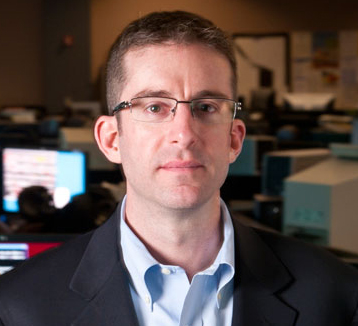
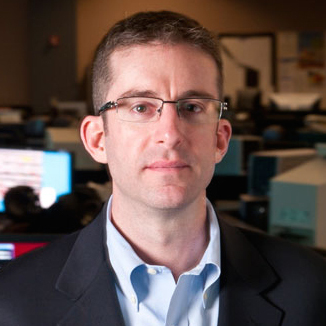
Completed dummy pages for Brett Goldstein

diff --git a/_includes/people/brett-goldstein.html b/_includes/people/brett-goldstein.html
@@ -1,0 +1,55 @@
+{% if include.context == 'people-page' %}
+
+<div class="layout-semibreve h-card">
+
+	<div class="heading">
+		<h2 class="p-name">Brett Goldstein</h2>
+	</div>
+
+	<div class="layout-minor">
+
+	    <h4 class="text-whisper layout-tight">Member of</h4>
+	    <ul class="list-no-bullets text-whisper link-invert">
+	    	<li><a href="{{ include.base }}/about/team/#board">Board</a></li>
+
+	    </ul>
+
+		<img class="profile-photo u-photo" src="{{ include.base }}/media/images/people/brett-goldstein.jpg" />
+	</div>
+
+	<div class="layout-major">
+
+	    <p class="p-note">Brett Goldstein is simply dummy text of the printing and typesetting industry. Lorem Ipsum has been the industry's standard dummy text ever since the 1500s, when an unknown printer took a galley of type and scrambled it to make a type specimen book. It has survived not only five centuries, but also the leap into electronic typesetting, remaining essentially unchanged.</p>
+
+
+	    <div class="spotlight">
+	    	<h3 class="text-whisper">Contact</h3>
+	    	<table class="table-unstyled table-minor">
+	    		<tr><th>Twitter</th><td><a href="https://twitter.com/brettogoldstein">@brettogoldstein</a></td></tr>
+	    		<tr><th>LinkedIn</th><td><a href="http://www.linkedin.com/in/brettgoldstein">http://www<wbr>.linkedin<wbr>.com/<wbr>in/<wbr>brettgoldstein</a></td></tr>
+	    		<tr><th>Blog Posts</th><td><a href="http://www.codeforamerica.org/author/johnl/">http://www<wbr>.codeforamerica<wbr>.org/<wbr>author/<wbr>johnl/</a></td></tr>
+
+	    	</table>
+	    </div>
+	</div>
+
+</div>
+
+{% elsif include.context == 'about-team' %}
+
+<div class="h-card profile-small">
+    <h3 class="p-name profile-name">Brett Goldstein</h3><img class="u-photo profile-photo" src="{{ include.base }}/media/images/people/brett-goldstein.jpg">
+
+    <div class="p-note profile-note">
+        <p>Brett Goldstein is simply dummy text of the printing and typesetting industry. Lorem Ipsum has been the industry's standard dummy text ever since the 1500s, when an unknown printer took a galley of type and scrambled it to make a type specimen book. It has survived not only five centuries, but also the leap into electronic typesetting, remaining essentially unchanged.</p>
+
+        <p><a class="link-more" href="{{ include.base }}/people/brett-goldstein/">More</a></p>
+
+        <ul class="list-social list-social-horizontal">
+            <li class="social-linkedin"><a href="http://www.linkedin.com/in/brettgoldstein">LinkedIn</a></li>
+            <li class="social-twitter"><a href="https://twitter.com/brettogoldstein">@brettogoldstein</a></li>
+        </ul>
+    </div>
+</div>
+
+{% endif %}

diff --git a/about/board/index.html b/about/board/index.html
@@ -51,6 +51,9 @@ nav-breadcrumbs:
                             <li class="layout-crotchet">
                                 {% include people/shona-brown.html context="about-team" base="../.." %}
                             </li>
+                            <li class="layout-crotchet">
+                                {% include people/brett-goldstein.html context="about-team" base="../.." %}
+                            </li>
                         </ul>
                     </div>
                 </section>

diff --git a/_includes/people/andrew-greenhill.html b/_includes/people/andrew-greenhill.html
@@ -37,7 +37,7 @@
 {% elsif include.context == 'about-team' %}
 
 <div class="h-card profile-small">
-    <h3 class="p-name profile-name">Andrew Greenhill</h3><img class="u-photo profile-photo" src="http://www.codeforamerica.org/wp-content/themes/cfawp2012/images/staff/andrew-greenhill.jpg">
+    <h3 class="p-name profile-name">Andrew Greenhill</h3><img class="u-photo profile-photo" src="{{ include.base }}/media/images/people/andrew-greenhill.jpg">
 
    <div class="p-note profile-note">
        <p>Emeritus</p>

diff --git a/people/brett-goldstein/index.html b/people/brett-goldstein/index.html
@@ -1,0 +1,12 @@
+---
+layout: default
+title: Brett Goldstein
+title-h1: People
+nav_tier1_active: "citizens"
+masthead-class: masthead-s
+masthead-image: "../../media/images/masthead/masthead-5.jpg"
+nav-breadcrumbs:
+ - Citizens: "/geeks"
+---
+  
+{% include people/brett-goldstein.html context="people-page" base="../.." %}
